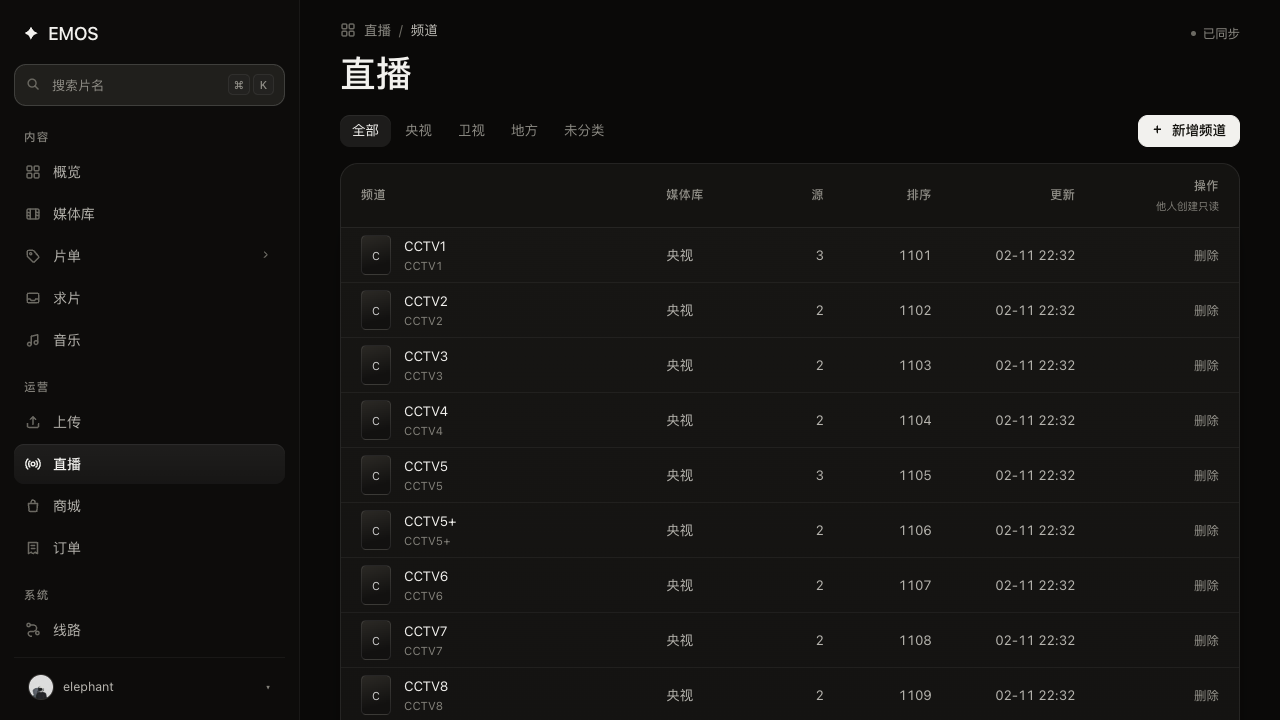
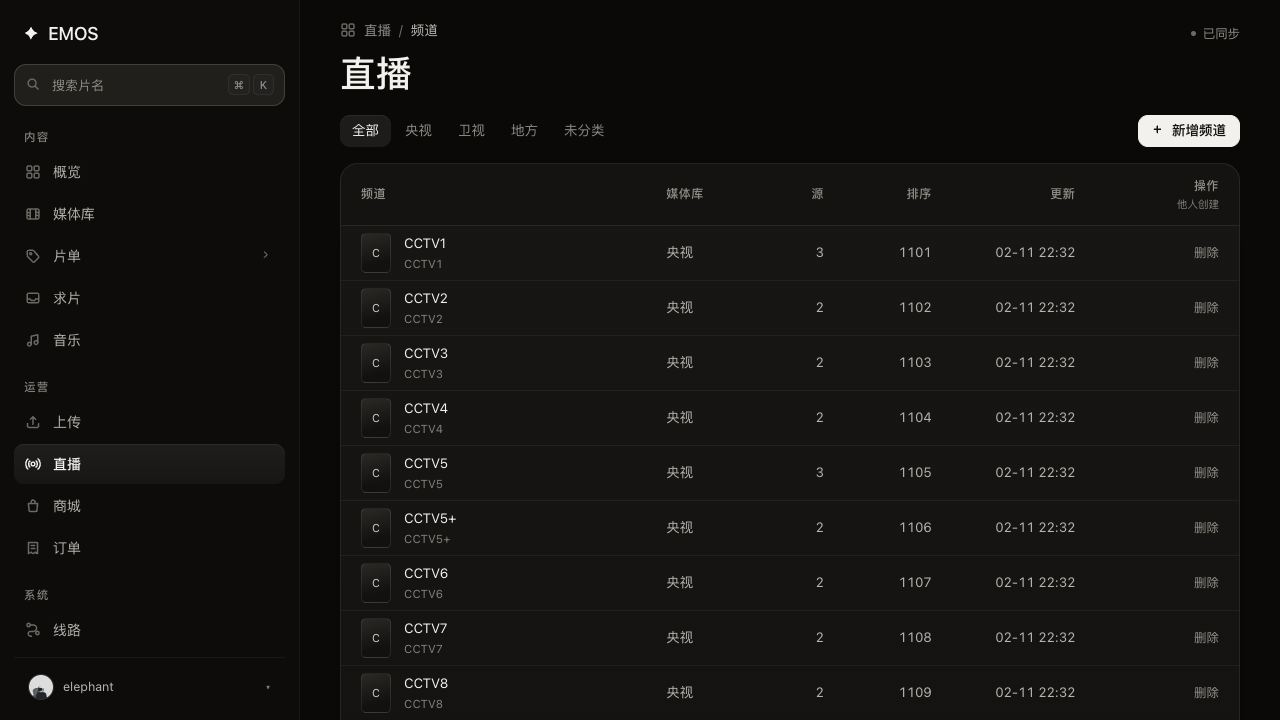
fix: 表头说明撑宽表格，两张表补 fixed 布局
.th-hint 用了 white-space: nowrap，塞进 10–12% 的窄列后把整表撑宽：
线路溢出 229px、回收站 31px、片单 29px，最后一列被裁。
- 允许表头说明换行，文案缩到「他人创建 / 他人上传」
- 线路、回收站、片单三张表同样改 table-layout: fixed
实测三者溢出全部归零（-2px）。

diff --git a/src/views/RecycleView.tsx b/src/views/RecycleView.tsx
@@ -134,7 +134,7 @@ export function RecycleView({ tab, onTab, page, onPage, pageSize, onPageSize, q,
       {rows.length > 0 ? (
         <div className={`table-card content-in${(tab === 'media' ? media.isPlaceholderData : videos.isPlaceholderData) ? ' is-stale' : ''}`} key={`${tab}-${rows.length}-${String(rows[0]?.media_id ?? rows[0]?.video_id ?? "")}`}>
           {tab === 'media' ? (
-            <table className="table">
+            <table className="table table--fixed">
               <thead>
                 <tr>
                   <th style={{ width: '34%' }}>资源</th>
@@ -144,7 +144,7 @@ export function RecycleView({ tab, onTab, page, onPage, pageSize, onPageSize, q,
                   <th className="num" style={{ width: '12%' }}>入库时间</th>
                   <th style={{ width: '96px', textAlign: 'right' }}>
                     操作
-                    <span className="th-hint">他人上传只读</span>
+                    <span className="th-hint">他人上传</span>
                   </th>
                 </tr>
               </thead>
@@ -186,7 +186,7 @@ export function RecycleView({ tab, onTab, page, onPage, pageSize, onPageSize, q,
               </tbody>
             </table>
           ) : (
-            <table className="table">
+            <table className="table table--fixed">
               <thead>
                 <tr>
                   <th style={{ width: '46%' }}>影片</th>
@@ -195,7 +195,7 @@ export function RecycleView({ tab, onTab, page, onPage, pageSize, onPageSize, q,
                   <th className="num" style={{ width: '16%' }}>上映</th>
                   <th style={{ width: '96px', textAlign: 'right' }}>
                     操作
-                    <span className="th-hint">他人上传只读</span>
+                    <span className="th-hint">他人上传</span>
                   </th>
                 </tr>
               </thead>

diff --git a/src/views/LinesView.tsx b/src/views/LinesView.tsx
@@ -60,7 +60,7 @@ export function LinesView() {
 
       {paged.length > 0 ? (
         <div className="table-card">
-          <table className="table">
+          <table className="table table--fixed">
             <thead>
               <tr>
                 <th style={{ width: '24%' }}>名称</th>
@@ -69,7 +69,7 @@ export function LinesView() {
                 <th style={{ width: '18%' }}>创建时间</th>
                 <th style={{ width: '12%', textAlign: 'right' }}>
                   操作
-                  <span className="th-hint">他人创建只读</span>
+                  <span className="th-hint">他人创建</span>
                 </th>
               </tr>
             </thead>

diff --git a/src/views/WatchlistsView.tsx b/src/views/WatchlistsView.tsx
@@ -111,7 +111,7 @@ export function WatchlistsView({ search, onSearch }: { search: WatchSearch; onSe
 
       {!error && !isLoading && data && data.items.length > 0 ? (
         <div className={`table-card content-in${isPlaceholderData ? ' is-stale' : ''}`} key={`${data.items.length}-${data.items[0]?.id}-${data.total}`}>
-          <table className="table">
+          <table className="table table--fixed">
             <thead>
               <tr>
                 <th style={{ width: '38%' }}>片单</th>

diff --git a/src/views/LiveView.tsx b/src/views/LiveView.tsx
@@ -145,7 +145,7 @@ export function LiveView({ search, onSearch }: { search: LiveSearch; onSearch: (
                 <th className="num" style={{ width: '16%' }}>更新</th>
                 <th style={{ width: '16%', textAlign: 'right' }}>
                   操作
-                  <span className="th-hint">他人创建只读</span>
+                  <span className="th-hint">他人创建</span>
                 </th>
               </tr>
             </thead>

diff --git a/src/styles/components.css b/src/styles/components.css
@@ -446,7 +446,8 @@
   font-size: 10.5px;
   font-weight: 400;
   letter-spacing: 0;
-  white-space: nowrap;
+  white-space: normal;
+  line-height: 1.3;
 }
 /* 列宽按声明走，避免长文本把最后一列挤出卡片 */
 .table--fixed { table-layout: fixed; }
